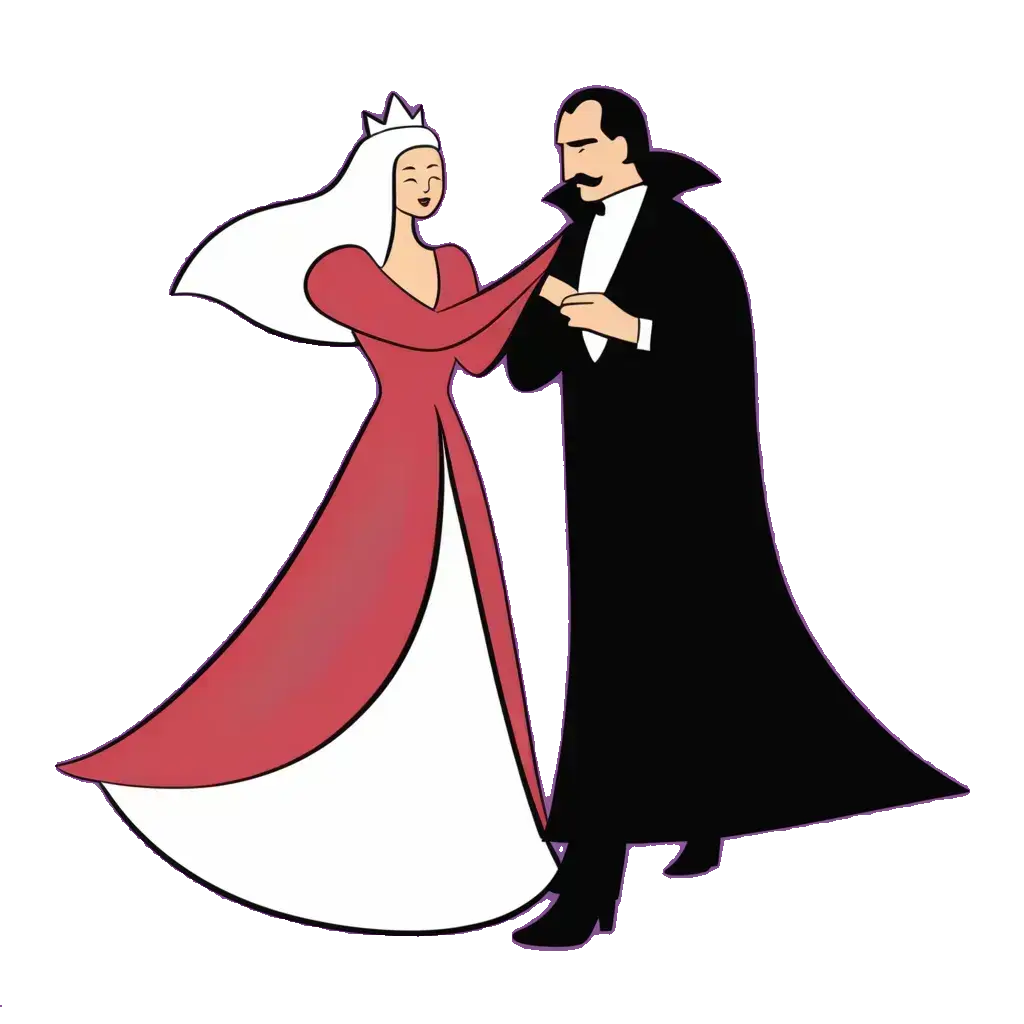
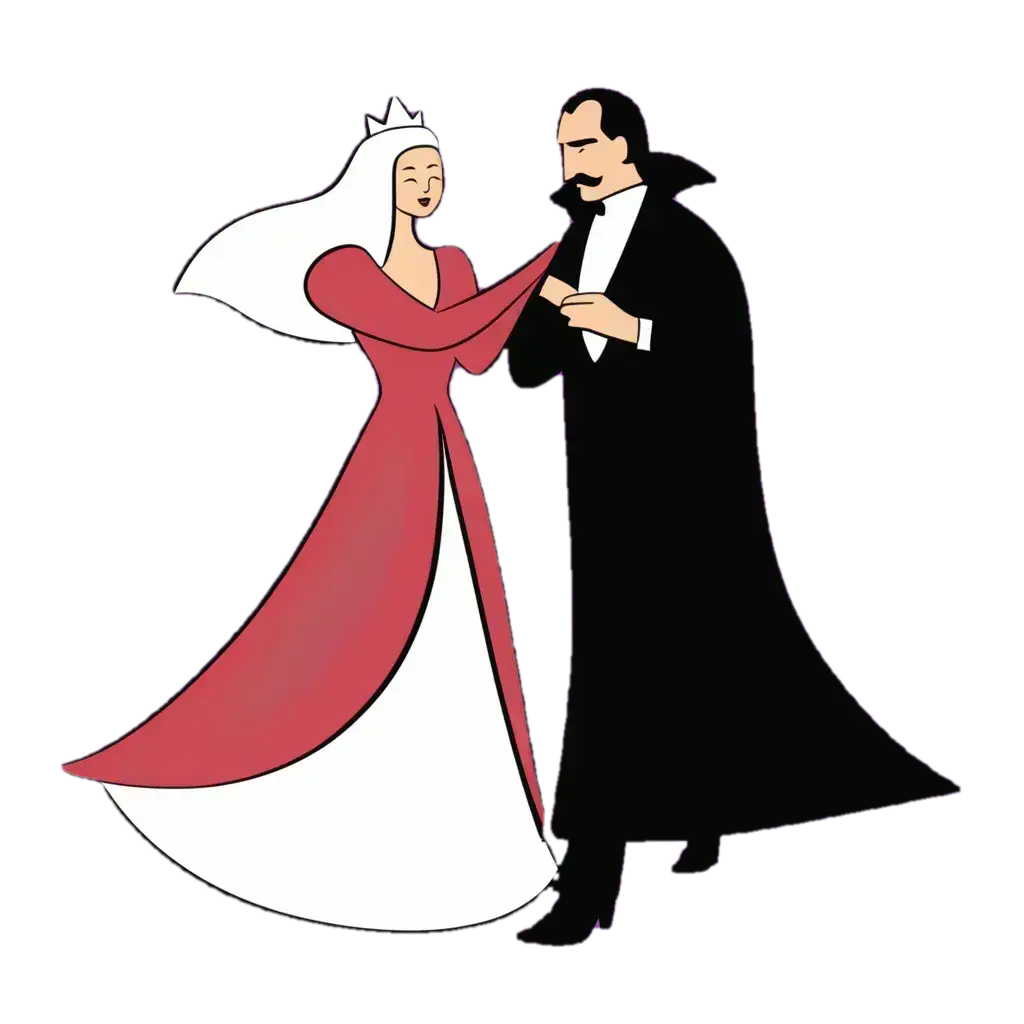
Update to SAM masking

diff --git a/test_sam.py b/test_sam.py
@@ -1,64 +1,75 @@
 import torch
 import numpy as np
-from PIL import Image, ImageOps
+from PIL import Image
 from segment_anything import sam_model_registry, SamPredictor
 import matplotlib.pyplot as plt
+import cv2  # For image processing
 
-# Ensure the interactive backend is set
-import matplotlib
-matplotlib.use('TkAgg')  # Use 'Qt5Agg' if you have PyQt5 installed
-
-# Load the model from the registry using the 'vit_h' variant
+# Load the SAM model
 sam_model = sam_model_registry['vit_h'](checkpoint="sam_vit_h_4b8939.pth")
-# Initialize the predictor
+sam_model.to(device='cuda' if torch.cuda.is_available() else 'cpu')
 predictor = SamPredictor(sam_model)
 
-# Load an image (make sure to provide the correct path to your image)
-image_path = "03oCB48k9yoynd5BHd_Q6y06Rn9daGMECr4WzOKnC88.png"
-image = Image.open(image_path).convert("RGBA")  # Ensure image is in RGBA mode for transparency
+# Load and preprocess the image
+image_path = "03oCB48k9yoynd5BHd_Q6y06Rn9daGMECr4WzOKnC88.png"  # Replace with your image path
+image = Image.open(image_path).convert("RGB")  # Convert to RGB mode (3 channels)
 
-# Resize the image to ensure the long side is 1024 pixels
-long_side = 1024
-image.thumbnail((long_side, long_side), Image.LANCZOS)  # Use Image.LANCZOS instead of Image.ANTIALIAS
+# Function to resize the image to have the long side exactly 1024 pixels
+def resize_image(image, long_side=1024):
+    width, height = image.size
+    if width >= height:
+        new_width = long_side
+        new_height = int(round((height * long_side) / width))
+    else:
+        new_height = long_side
+        new_width = int(round((width * long_side) / height))
+    return image.resize((new_width, new_height), Image.LANCZOS)
 
-# Convert the image to a numpy array
-image_np = np.array(image)
+# Resize the image
+image = resize_image(image)
 
-# Convert the image to a tensor and format it as BCHW (Batch, Channels, Height, Width)
-image_tensor = torch.from_numpy(image_np).permute(2, 0, 1).unsqueeze(0)  # BCHW format
-image_tensor = image_tensor[:, :3, :, :]  # Remove the alpha channel if present (only keep RGB)
+# Convert the image to a NumPy array and ensure it's uint8
+image_np = np.array(image).astype(np.uint8)
+
+# Verify the image shape and data type
+print(f"Image shape: {image_np.shape}, Data type: {image_np.dtype}")
+assert image_np.ndim == 3 and image_np.shape[2] == 3, "Image must be of shape [H, W, 3]"
 
 # Set the image in the predictor
-predictor.set_image(image_tensor.squeeze(0).permute(1, 2, 0).cpu().numpy())
+predictor.set_image(image_np)
 
-# The rest of your interactive code for selecting points remains the same...
-# Initialize lists to store input points and labels
+# Initialize lists for interactive input
 input_points = []
 input_labels = []
 
 # Create a figure and axes
 fig, ax = plt.subplots()
 ax.imshow(image_np)
-plt.title("Click to add points (Left-click: Foreground, Right-click: Background).\nPress 'u' to undo last point. Close the window when done.")
+plt.title("Left-click: Foreground, Right-click: Background\nPress 'u' to undo. Close window when done.")
 
-# Initialize the mask display
+# Initialize the mask display and image display
 mask_display = None
+image_display = None
 
-# Function to update the segmentation mask
+# Function to update the segmentation mask and display
 def update_mask():
-    global mask_display
+    global mask_display, image_display
     if len(input_points) == 0:
-        # Clear the mask if no points
+        # Clear the mask and display the original image
         if mask_display is not None:
             mask_display.remove()
             mask_display = None
+        if image_display is not None:
+            image_display.remove()
+            image_display = None
+        ax.imshow(image_np)
         plt.draw()
         return
-    # Convert lists to numpy arrays
+    # Convert lists to NumPy arrays
     input_point = np.array(input_points)
     input_label = np.array(input_labels)
     # Perform segmentation prediction
-    masks, scores, logits = predictor.predict(
+    masks, _, _ = predictor.predict(
         point_coords=input_point,
         point_labels=input_label,
         multimask_output=False,
@@ -66,11 +77,45 @@ def update_mask():
     # Get the mask
     mask = masks[0]
 
-    # Remove previous mask
-    if mask_display is not None:
-        mask_display.remove()
-    # Overlay the new mask
-    mask_display = ax.imshow(mask, alpha=0.5, cmap='jet')
+    # Post-process the mask
+    mask_processed = post_process_mask(mask)
+
+    # Threshold the mask to create a binary mask
+    _, mask_bin = cv2.threshold(mask_processed, 128, 255, cv2.THRESH_BINARY)
+
+    # Convert original image to numpy array
+    image_array = image_np.copy()
+
+    # Convert image to grayscale
+    image_gray = cv2.cvtColor(image_array, cv2.COLOR_RGB2GRAY)
+
+    # Stack grayscale image to have 3 channels
+    image_gray_3ch = cv2.cvtColor(image_gray, cv2.COLOR_GRAY2RGB)
+
+    # Create a composite image
+    display_image = np.zeros_like(image_array)
+    display_image[mask_bin == 255] = image_array[mask_bin == 255]  # Foreground in color
+    display_image[mask_bin == 0] = image_gray_3ch[mask_bin == 0]   # Background in grayscale
+
+    # ---- Add Gray Outline Around the Mask ----
+    # Find contours
+    contours, _ = cv2.findContours(mask_bin, cv2.RETR_EXTERNAL, cv2.CHAIN_APPROX_SIMPLE)
+
+    # Convert display_image to BGR for OpenCV
+    display_image_bgr = cv2.cvtColor(display_image, cv2.COLOR_RGB2BGR)
+
+    # Draw the contours on the display_image
+    cv2.drawContours(display_image_bgr, contours, -1, (128, 128, 128), 2)  # Gray color, thickness 2
+
+    # Convert back to RGB
+    display_image = cv2.cvtColor(display_image_bgr, cv2.COLOR_BGR2RGB)
+    # -----------------------------------------
+
+    # Remove previous image display
+    if image_display is not None:
+        image_display.remove()
+    # Display the composite image
+    image_display = ax.imshow(display_image)
     plt.draw()
 
 # Function to handle mouse click events
@@ -101,12 +146,30 @@ def onkey(event):
             # Redraw the points
             for i, point in enumerate(input_points):
                 x, y = point
-                if input_labels[i] == 1:
-                    ax.plot(x, y, 'ro')
-                else:
-                    ax.plot(x, y, 'bo')
+                color = 'ro' if input_labels[i] == 1 else 'bo'
+                ax.plot(x, y, color)
             update_mask()
             plt.draw()
+
+# Function to post-process the mask
+def post_process_mask(mask):
+    # Convert mask to uint8 format
+    mask = (mask * 255).astype(np.uint8)
+
+    # Define a kernel size for morphological operations
+    kernel_size = 5  # Adjust this value as needed
+    kernel = np.ones((kernel_size, kernel_size), np.uint8)
+
+    # Apply morphological closing (dilation followed by erosion)
+    mask = cv2.morphologyEx(mask, cv2.MORPH_CLOSE, kernel)
+
+    # Apply morphological opening (erosion followed by dilation)
+    mask = cv2.morphologyEx(mask, cv2.MORPH_OPEN, kernel)
+
+    # Apply Gaussian blur to smooth edges
+    mask = cv2.GaussianBlur(mask, (5, 5), 0)
+
+    return mask
 
 # Connect the event handlers
 fig.canvas.mpl_connect('button_press_event', onclick)
@@ -114,26 +177,19 @@ fig.canvas.mpl_connect('key_press_event', onkey)
 
 plt.show()
 
-# After closing the window, apply the mask to the original image and save with transparent background
+# After closing the window, save the final image with transparent background
 if len(input_points) > 0:
-    # Convert lists to numpy arrays
-    input_point = np.array(input_points)
-    input_label = np.array(input_labels)
-    # Perform segmentation prediction
-    masks, scores, logits = predictor.predict(
-        point_coords=input_point,
-        point_labels=input_label,
+    # Perform segmentation prediction again to get the final mask
+    masks, _, _ = predictor.predict(
+        point_coords=np.array(input_points),
+        point_labels=np.array(input_labels),
         multimask_output=False,
     )
-    # Get the mask
     mask = masks[0]
+    mask_processed = post_process_mask(mask)
 
-    # Convert mask to uint8 format
-    mask = (mask * 255).astype(np.uint8)
-
-    # Create an alpha channel based on the mask (255 for foreground, 0 for background)
-    alpha_channel = Image.fromarray(mask).resize(image.size)
-    alpha_channel = ImageOps.invert(alpha_channel)  # Invert the mask so background is transparent
+    # Create an alpha channel based on the processed mask
+    alpha_channel = Image.fromarray(mask_processed).resize(image.size)
 
     # Add the alpha channel to the original image
     image_with_alpha = image.copy()
